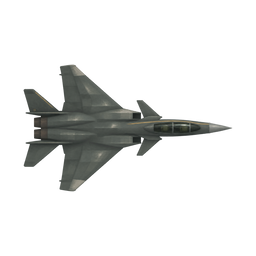
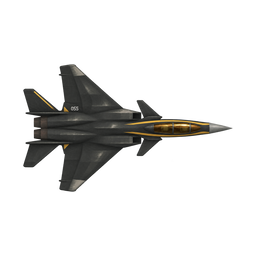
Restore readable black and gold paint on the MTD raid sprite

Changed region(s): [[0.0938, 0.25, 0.9062, 0.75]]

diff --git a/Art/EnemyAirStrike/README.md b/Art/EnemyAirStrike/README.md
@@ -6,7 +6,9 @@
 |---|---|---|
[6 lines of base64/hex data omitted]
 
 첫 편집에는 첫 시안과 아래 네 장을 직접 첨부했다. 두 번째 편집에서는 수정 시안·공식 도장 사진·원작 공습기 PNG를 다시 첨부해 표식 위치를 고쳤다. 두 편집 모두 투명 배경을 사용했다.
 
@@ -26,3 +28,17 @@ magick Art/EnemyAirStrike/MTD-revised.png -crop 1376x845+179+21 +repage \
 ```
 
 [실제 편집 프롬프트](revision-prompts.txt).
+
+
+## 검은색과 금색 도장 수정
+
+회녹색 수정본을 편집 대상으로 사용했다. 헤비멕1에서 채택한 F-22와 MiG-31 PNG는 검은 동체와 금색 대비의 기준으로, MachDefense의 `Airplane.png`는 무광 표면과 부드러운 명암의 기준으로 첨부했다. 날개 전체를 금색으로 두르지 않고 금색 캐노피와 기수 양옆의 선, 꼬리 쪽 강조점을 사용했다. [실제 프롬프트](black-gold-prompt.txt).
+
[2 lines of base64/hex data omitted]
+
+같은 크롭과 축소 조건을 적용했다. 이전·수정 생성 원본의 알파 128 이상 윤곽을 각 외곽 사각형에 맞춰 비교했을 때 교집합/합집합은 약 98.6%였다. 원본 크기와 큰 윤곽은 유지됐으며 외곽 픽셀까지 동일한 편집은 아니다.
+
+```sh
+magick Art/EnemyAirStrike/MTD-black-gold.png -crop 1376x845+179+21 +repage   -filter Lanczos -resize 212x212 -background none -gravity center   -extent 256x256 -strip PNG32:Resources/Images/EnemyAirStrikeMTD.png
+```

diff --git a/docs/research/enemy-airstrike-art-20261127.md b/docs/research/enemy-airstrike-art-20261127.md
@@ -65,3 +65,9 @@
 첫 시안의 넓은 호박색 캐노피와 둥근 노즐을 가는 회녹색 캐노피와 사각 노즐로 수정했다. 날개에 둘렀던 금색 선을 빼고 기수 옆의 탁금색 선과 작은 꼬리 표식을 적용했다. 최종 그림의 크롭과 축소 명령을 기록하고 적기 PNG를 교체했다.
 
 [이전 전투 화면](../evidence/enemy-airstrike-20261127/ios-simulator.png) · [수정 전투 화면](../evidence/enemy-airstrike-20261127/ios-simulator-revised.png). 같은 iPhone Air 시뮬레이터 테스트에서 원작기와 수정기를 한 프레임에 그렸다. 테스트 번들의 수정 PNG를 소스와 대조했다. 전투 배율에서 기수 옆의 가는 도장선은 보이지만 작은 꼬리 표식은 읽기 어렵다.
+
+## 검은색과 금색 도장 재수정
+
+사용자가 전투 화면에서 검은색과 금색을 알아보기 어렵다고 지적했다. 이번 편집에는 헤비멕1 채택 F-22·MiG-31을 도장 기준으로 직접 첨부했다. MachDefense의 `Airplane.png`는 무광 표면과 부드러운 명암을 맞추는 데 사용했다. STOL/MTD의 카나드·가는 복좌 캐노피·사각 노즐을 남기고 동체를 검은 차콜색으로 바꿨다. 금색 유리와 기수 양옆 도장선의 명도와 면적을 높였다. [참조와 실제 프롬프트](../../Art/EnemyAirStrike/README.md#검은색과-금색-도장-수정).
+
+[회녹색 수정본 캡처](../evidence/enemy-airstrike-20261127/ios-simulator-revised.png) · [검은색·금색 캡처](../evidence/enemy-airstrike-20261127/ios-simulator-black-gold.png). 같은 iPhone Air 시뮬레이터 전투의 320×480 프레임을 비교했다. 검은 동체와 금색 유리·선이 배율을 확대하지 않아도 보인다. 흰색 `055`는 원본 그림에서 읽히며 전투 프레임에서는 작다. 캡처의 픽셀 변화는 적기 영역에만 있다. 변경한 PNG가 빌드 및 테스트 앱 번들에 들어간 것을 바이트로 대조했다.
